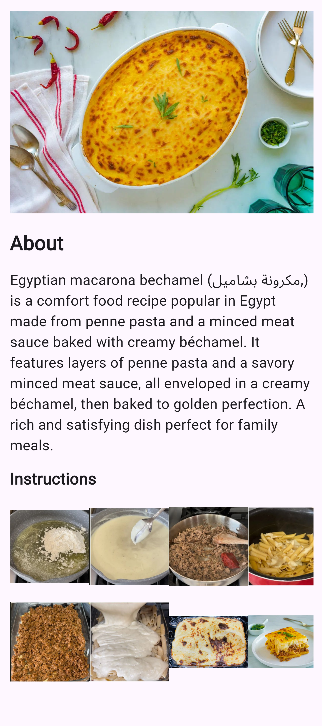
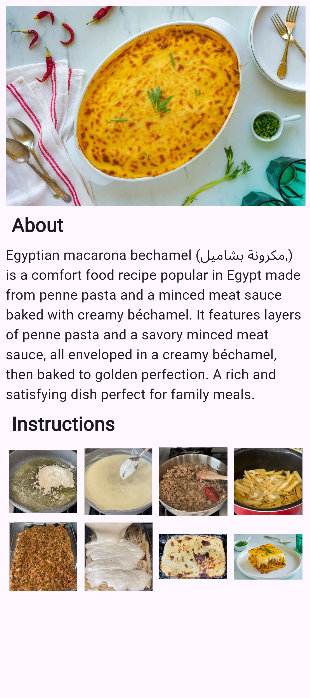
Updated README and main.dart, added test.dart

diff --git a/lib/main.dart b/lib/main.dart
@@ -1,99 +1,60 @@
 import 'package:flutter/material.dart';
 
-void main() {
+void main(){
   runApp(MyApp());
 }
-
 class MyApp extends StatelessWidget {
+  const MyApp({super.key});
+
   @override
   Widget build(BuildContext context) {
-    return MaterialApp(
-      debugShowCheckedModeBanner: false,
-      home: SafeArea(
-        child: Scaffold(
-          body: Padding(
-            padding: const EdgeInsets.all(15.0),
-            child: ListView(              
-              children: [
-                Image.asset('lib/images/bashamel1.jpg'),
-                SizedBox(height: 20),
-                Text(
-                  'About',
-                  style: TextStyle(fontWeight: FontWeight.bold, fontSize: 25),
-                ),
-                SizedBox(height: 15),
-                Text(
-                  'Egyptian macarona bechamel (مكرونة بشاميل,) is a comfort food recipe popular in Egypt made from penne pasta and a minced meat sauce baked with creamy béchamel. It features layers of penne pasta and a savory minced meat sauce, all enveloped in a creamy béchamel, then baked to golden perfection. A rich and satisfying dish perfect for family meals.',
-                  style: TextStyle(fontSize: 18),
-                ),
-                SizedBox(height: 15),
-                Text(
-                  'Instructions',
-                  style: TextStyle(fontWeight: FontWeight.bold, fontSize: 20),
-                ),
-                SizedBox(height: 20),
-                SingleChildScrollView(
-                  scrollDirection: Axis.horizontal,
-                  child: Row(
-                    mainAxisAlignment: MainAxisAlignment.spaceAround,
-                    children: [
-                      Image.asset(
-                        'lib/images/step1.png',
-                        width: 100,
-                        height: 100,
-                      ),
-                      Image.asset(
-                        'lib/images/step2.png',
-                        width: 100,
-                        height: 100,
-                      ),
-                      Image.asset(
-                        'lib/images/step3.png',
-                        width: 100,
-                        height: 100,
-                      ),
-                      Image.asset(
-                        'lib/images/step4.png',
-                        width: 100,
-                        height: 100,
-                      ),
-                    ],
-                  ),
-                ),
-                SizedBox(height: 20),
-        
-                SingleChildScrollView(
-                  scrollDirection: Axis.horizontal,
-                  child: Row(
-                    children: [
-                      Image.asset(
-                        'lib/images/step5.png',
-                        width: 100,
-                        height: 100,
-                      ),
-                      Image.asset(
-                        'lib/images/step6.png',
-                        width: 100,
-                        height: 100,
-                      ),
-                      Image.asset(
-                        'lib/images/bashamel6.jpg',
-                        width: 100,
-                        height: 100,
-                      ),
-                      Image.asset(
-                        'lib/images/bashamel2.jpg',
-                        width: 100,
-                        height: 100,
-                      ),
-                    ],
-                  ),
-                ),
-              ],
-            ),
-          ),
-        ),
+    return MaterialApp(debugShowCheckedModeBanner: false, home: SafeArea(child: Scaffold(body: HomeScreen(),)),);
+  }
+}
+class HomeScreen extends StatelessWidget {
+  const HomeScreen({super.key});
+  
+  @override
+  Widget build(BuildContext context) {
+    return Padding(
+      padding: const EdgeInsets.all(10.0),
+      child: ListView(
+        children: [
+          Image.asset('lib/images/bashamel1.jpg'),
+          _buildTitle('About'),
+          _buildDescribtion('Egyptian macarona bechamel (مكرونة بشاميل,) is a comfort food recipe popular in Egypt made from penne pasta and a minced meat sauce baked with creamy béchamel. It features layers of penne pasta and a savory minced meat sauce, all enveloped in a creamy béchamel, then baked to golden perfection. A rich and satisfying dish perfect for family meals.'),
+          _buildTitle('Instructions'),
+          _buildImageRow(['lib/images/step1.png',
+              'lib/images/step2.png',
+              'lib/images/step3.png',
+              'lib/images/step4.png',]),
+              _buildImageRow(['lib/images/step5.png',
+              'lib/images/step6.png',
+              'lib/images/bashamel6.jpg',
+              'lib/images/bashamel2.jpg'])
+        ]
       ),
     );
   }
+ 
+Widget _buildImageRow(List<String> imagePaths) {
+  return SingleChildScrollView(
+    scrollDirection: Axis.horizontal,
+    child: Row(
+      children: List.generate(imagePaths.length, (index) => Padding(
+        padding: const EdgeInsets.all(4.0),
+        child: Image.asset(imagePaths[index], width: 90, height: 90),
+      )),
+    ),
+  );
+}
+Widget _buildTitle(String text){
+  return Padding(
+    padding: const EdgeInsets.all(8.0),
+    child: Text(text,style:TextStyle(fontSize: 25,fontWeight: FontWeight.bold)),
+  );
+}
+Widget _buildDescribtion(String text){
+  return Text(text,style: TextStyle(fontSize: 18),);
+}
 }

diff --git a/lib/test.dart b/lib/test.dart
@@ -1,0 +1,94 @@
+import 'package:flutter/material.dart';
+
+class text extends StatelessWidget {
+  @override
+  Widget build(BuildContext context) {
+    return MaterialApp(
+      debugShowCheckedModeBanner: false,
+      home: SafeArea(
+        child: Scaffold(
+          body: Padding(
+            padding: const EdgeInsets.all(15.0),
+            child: ListView(
+              children: [
+                Image.asset('lib/images/bashamel1.jpg'),
+                SizedBox(height: 20),
+                Text(
+                  'About',
+                  style: TextStyle(fontWeight: FontWeight.bold, fontSize: 25),
+                ),
+                SizedBox(height: 15),
+                Text(
+                  'Egyptian macarona bechamel (مكرونة بشاميل,) is a comfort food recipe popular in Egypt made from penne pasta and a minced meat sauce baked with creamy béchamel. It features layers of penne pasta and a savory minced meat sauce, all enveloped in a creamy béchamel, then baked to golden perfection. A rich and satisfying dish perfect for family meals.',
+                  style: TextStyle(fontSize: 18),
+                ),
+                SizedBox(height: 15),
+                Text(
+                  'Instructions',
+                  style: TextStyle(fontWeight: FontWeight.bold, fontSize: 20),
+                ),
+                SizedBox(height: 20),
+                SingleChildScrollView(
+                  scrollDirection: Axis.horizontal,
+                  child: Row(
+                    mainAxisAlignment: MainAxisAlignment.spaceAround,
+                    children: [
+                      Image.asset(
+                        'lib/images/step1.png',
+                        width: 100,
+                        height: 100,
+                      ),
+                      Image.asset(
+                        'lib/images/step2.png',
+                        width: 100,
+                        height: 100,
+                      ),
+                      Image.asset(
+                        'lib/images/step3.png',
+                        width: 100,
+                        height: 100,
+                      ),
+                      Image.asset(
+                        'lib/images/step4.png',
+                        width: 100,
+                        height: 100,
+                      ),
+                    ],
+                  ),
+                ),
+                SizedBox(height: 20),
+                SingleChildScrollView(
+                  scrollDirection: Axis.horizontal,
+                  child: Row(
+                    children: [
+                      Image.asset(
+                        'lib/images/step5.png',
+                        width: 100,
+                        height: 100,
+                      ),
+                      Image.asset(
+                        'lib/images/step6.png',
+                        width: 100,
+                        height: 100,
+                      ),
+                      Image.asset(
+                        'lib/images/bashamel6.jpg',
+                        width: 100,
+                        height: 100,
+                      ),
+                      Image.asset(
+                        'lib/images/bashamel2.jpg',
+                        width: 100,
+                        height: 100,
+                      ),
+                    ],
+                  ),
+                ),
+              ],
+            ),
+          ),
+        ),
+      ),
+    );
+  }
+}

diff --git a/README.md b/README.md
@@ -1,4 +1,9 @@
 # Recipe Screen  💫  
+=======
+# Screen1
+CIS Task . Screen about fav food .
+=======
+# screen1_cis
 
 ## Overview  
 A clean and simple **Egyptian Macarona Bechamel** recipe screen featuring:  
